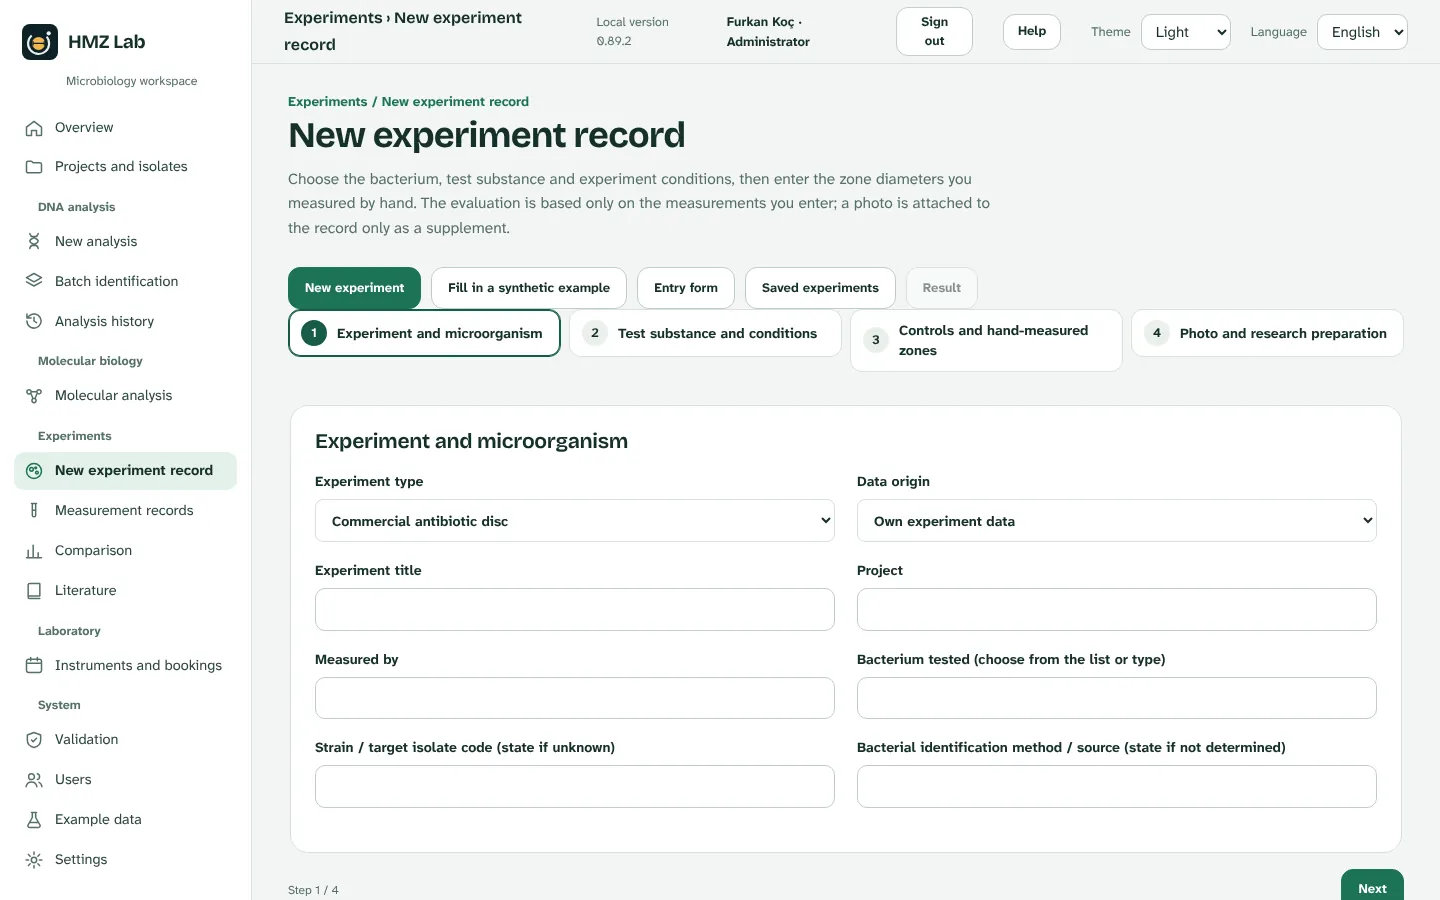
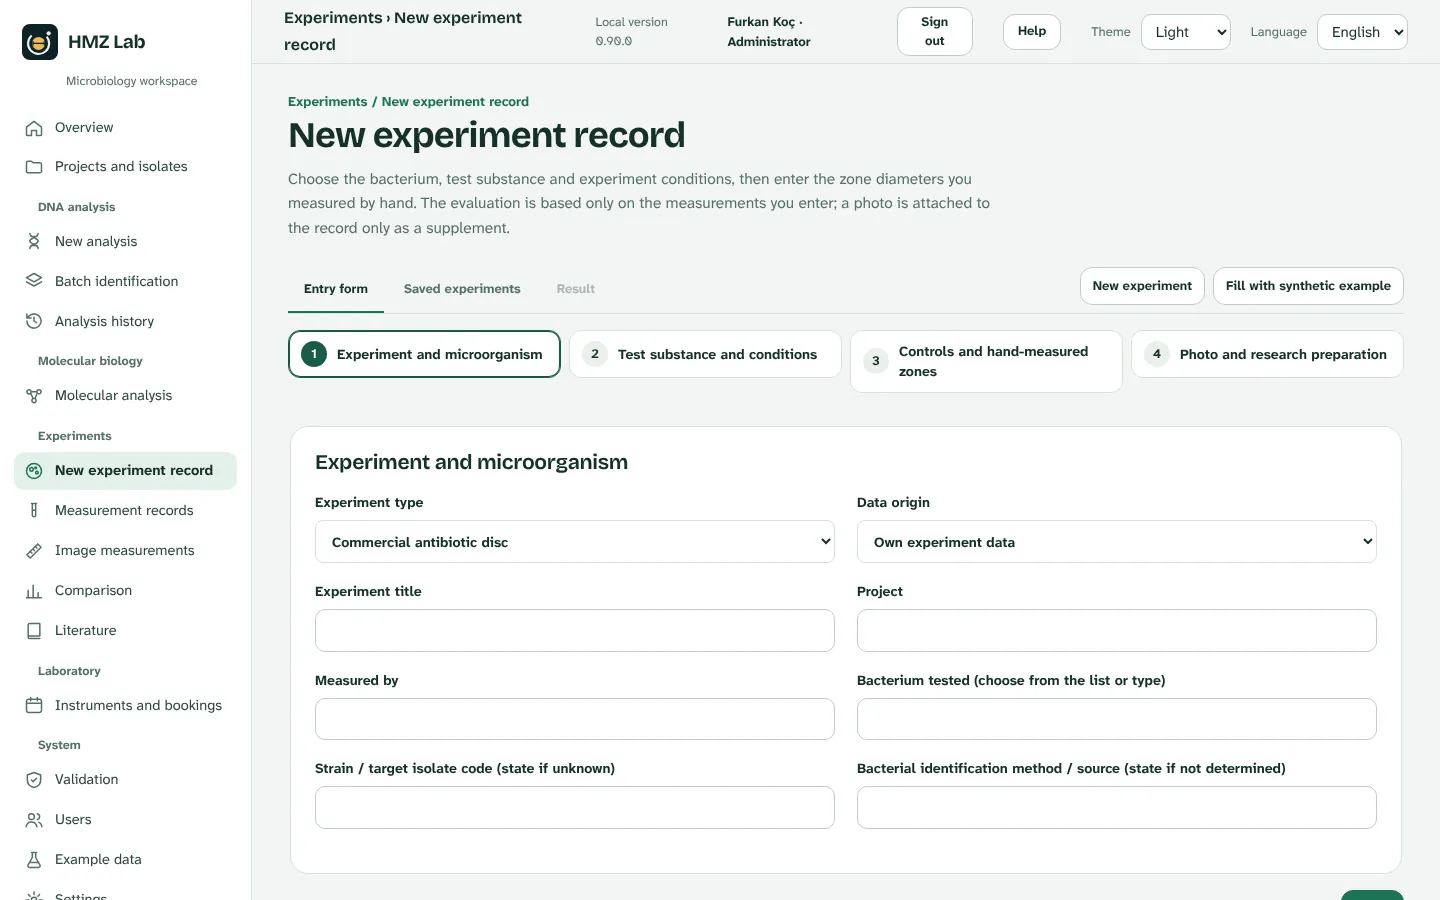
Add files via upload

diff --git a/en-download.html b/en-download.html
@@ -28,7 +28,7 @@
 <main id="icerik">
 <section class="sayfa-bas"><div class="kap">
 <h1>Download HMZ Lab</h1>
-<p class="giris">Latest version 0.89.2, 20 November 2026. Download files only from this page; an installer obtained elsewhere may have been altered. The program’s interface is available in English and Turkish.</p>
+<p class="giris">Latest version 0.90.0, 20 November 2026. Download files only from this page; an installer obtained elsewhere may have been altered. The program’s interface is available in English and Turkish.</p>
 </div></section>
 
 <section class="bolum ilk"><div class="kap platformlar">
@@ -70,14 +70,14 @@
 
 <section class="bolum" aria-labelledby="yenilikler"><div class="kap dar">
 <h2 id="yenilikler">What’s new in this version</h2>
-<ul class="liste"><li>The program has a new name: HMZ Lab (formerly BioLab Nexus). Installing over the old version moves your records automatically.</li><li>A new logo: an inhibition zone with a measuring line, in the program’s dark green and amber.</li><li>Windows installer: no Python needed and no administrator permission asked for; the program opens in its own window and stops by itself when the window is closed. Records are kept in a separate folder that updates and uninstalling never delete.</li><li>Account security: the number of sessions open at the same time on one account is limited (2 by default; the administrator can choose 1–5). Signing in on another device closes the oldest session, and that device is told why. You can see and close your open sessions in Settings.</li><li>The program can now be used in English: choose it in the Language box in the top bar (on a phone, at the bottom of the Menu); your records are not translated.</li><li>The website is in English and Turkish, with English screenshots of the program on the English pages.</li><li>Account requests and approval: the invitation goes to the school email address, and people choose their own username.</li></ul>
+<ul class="liste"><li>Example data now opens in a separate sandbox with one button: it never mixes with your real records, opens in its own window and can be emptied with “Start from scratch”.</li><li>Simpler pages: Projects and isolates is a one-line list with a “⋯” menu; New experiment record has a single row of tabs; Image measurements groups its exports in one menu; Settings has four sections (General, Backup, 16S reference, Licence).</li><li>File fields: drag a file in or choose one; the chosen file&#x27;s name is shown.</li><li>Project, sample and isolate fields suggest the names of existing records as you type.</li><li>The program has a new name: HMZ Lab (formerly BioLab Nexus). Installing over the old version moves your records automatically.</li><li>The program can now be used in English: choose it in the Language box in the top bar (on a phone, at the bottom of the Menu); your records are not translated.</li><li>Windows installer: no Python needed and no administrator permission asked for; the program opens in its own window and stops by itself when the window is closed. Records are kept in a separate folder that updates and uninstalling never delete.</li><li>Account security: the number of sessions open at the same time on one account is limited (2 by default; the administrator can choose 1–5). Signing in on another device closes the oldest session, and that device is told why. You can see and close your open sessions in Settings.</li></ul>
 </div></section>
 
 </main>
 <footer class="alt"><div class="kap alt-ic">
 <div><p class="alt-marka">HMZ Lab</p><p>Records, 16S identification, experiment and instrument booking software for microbiology laboratories.</p></div>
 <nav aria-label="Footer links"><a href="en-download.html">Download</a><a href="en-institutions.html">For institutions</a><a href="en-help.html">Help</a><a href="en-privacy.html">Privacy</a><a href="mailto:iletisim@ornek.com">Contact</a></nav>
-<p class="telif">© 2026 Furkan Koç. All rights reserved. HMZ Lab may be used only under a written licence agreement. Latest version 0.89.2 (20 November 2026).</p>
+<p class="telif">© 2026 Furkan Koç. All rights reserved. HMZ Lab may be used only under a written licence agreement. Latest version 0.90.0 (20 November 2026).</p>
 </div></footer>
 </body>
 </html>

diff --git a/indir.html b/indir.html
@@ -28,7 +28,7 @@
 <main id="icerik">
 <section class="sayfa-bas"><div class="kap">
 <h1>HMZ Lab’ı indirin</h1>
-<p class="giris">Son sürüm 0.89.2, 20 Kasım 2026. Dosyaları yalnız bu sayfadan indirin; başka bir yerden gelen kurulum dosyası değiştirilmiş olabilir.</p>
+<p class="giris">Son sürüm 0.90.0, 20 Kasım 2026. Dosyaları yalnız bu sayfadan indirin; başka bir yerden gelen kurulum dosyası değiştirilmiş olabilir.</p>
 </div></section>
 
 <section class="bolum ilk"><div class="kap platformlar">
@@ -70,14 +70,14 @@
 
 <section class="bolum" aria-labelledby="yenilikler"><div class="kap dar">
 <h2 id="yenilikler">Bu sürümde neler var?</h2>
-<ul class="liste"><li>Programın yeni adı HMZ Lab (önceki adı BioLab Nexus). Eski kurulumun üzerine kurulduğunda kayıtlar kendiliğinden taşınır.</li><li>Yeni logo: inhibisyon zonu ve ölçü çizgisi, programın koyu yeşil ve amber renkleriyle.</li><li>Windows kurulum dosyası: Python gerekmez, yönetici izni istenmez; program kendi penceresinde açılır ve pencere kapanınca kendiliğinden durur. Kayıtlar ayrı bir klasörde tutulur; güncelleme ve kaldırma silmez.</li><li>Hesap güvenliği: bir hesapta aynı anda açık oturum sayısı sınırlı (varsayılan 2; yönetici 1–5 arası seçer). Başka bir cihazdan girilince en eski oturum kapanır ve o cihaza nedeni söylenir. Ayarlar’da açık oturumlarınızı görüp kapatabilirsiniz.</li><li>Program artık İngilizce de kullanılabiliyor: üst çubuktaki Dil kutusundan (telefonda Menü’nün en altından) seçilir; kayıtlar çevrilmez.</li><li>Site Türkçe ve İngilizce; İngilizce sayfalarda programın İngilizce ekran görüntüleri.</li><li>Hesap talebi ve onay akışı: okul e-postasına giden davet, kullanıcı adını kişinin kendisinin seçmesi.</li></ul>
+<ul class="liste"><li>Örnek veriler artık tek düğmeyle ayrı bir deneme alanında açılıyor: asıl kayıtlarınıza karışmaz, kendi penceresinde açılır ve “Sıfırdan başlat” ile boşaltılır.</li><li>Daha sade sayfalar: Projeler ve izolatlar tek satırlık liste ve “⋯” menüsü; Yeni deney kaydında tek sekme satırı; Görüntü ölçümlerinde dışa aktarmalar tek menüde; Ayarlar dört bölümde (Genel, Yedekleme, 16S referansı, Lisans).</li><li>Dosya seçme alanları: dosyayı sürükleyip bırakın ya da seçin; seçilen dosyanın adı görünür.</li><li>Proje, numune ve izolat alanları var olan kayıtların adlarını yazdıkça öneriyor.</li><li>Programın yeni adı HMZ Lab (önceki adı BioLab Nexus). Eski kurulumun üzerine kurulduğunda kayıtlar kendiliğinden taşınır.</li><li>Program artık İngilizce de kullanılabiliyor: üst çubuktaki Dil kutusundan (telefonda Menü’nün en altından) seçilir; kayıtlar çevrilmez.</li><li>Windows kurulum dosyası: Python gerekmez, yönetici izni istenmez; program kendi penceresinde açılır ve pencere kapanınca kendiliğinden durur. Kayıtlar ayrı bir klasörde tutulur; güncelleme ve kaldırma silmez.</li><li>Hesap güvenliği: bir hesapta aynı anda açık oturum sayısı sınırlı (varsayılan 2; yönetici 1–5 arası seçer). Başka bir cihazdan girilince en eski oturum kapanır ve o cihaza nedeni söylenir. Ayarlar’da açık oturumlarınızı görüp kapatabilirsiniz.</li></ul>
 </div></section>
 
 </main>
 <footer class="alt"><div class="kap alt-ic">
 <div><p class="alt-marka">HMZ Lab</p><p>Mikrobiyoloji laboratuvarları için kayıt, 16S tanımlama, deney ve cihaz randevu programı.</p></div>
 <nav aria-label="Alt bağlantılar"><a href="indir.html">İndir</a><a href="kurumlar.html">Kurumlar için</a><a href="yardim.html">Yardım</a><a href="gizlilik.html">Gizlilik</a><a href="mailto:iletisim@ornek.com">İletişim</a></nav>
-<p class="telif">© 2026 Furkan Koç. Tüm hakları saklıdır. HMZ Lab yalnız yazılı lisans sözleşmesiyle kullanılabilir. Son sürüm 0.89.2 (20 Kasım 2026).</p>
+<p class="telif">© 2026 Furkan Koç. Tüm hakları saklıdır. HMZ Lab yalnız yazılı lisans sözleşmesiyle kullanılabilir. Son sürüm 0.90.0 (20 Kasım 2026).</p>
 </div></footer>
 </body>
 </html>

diff --git a/en.html b/en.html
@@ -129,7 +129,7 @@
 <footer class="alt"><div class="kap alt-ic">
 <div><p class="alt-marka">HMZ Lab</p><p>Records, 16S identification, experiment and instrument booking software for microbiology laboratories.</p></div>
 <nav aria-label="Footer links"><a href="en-download.html">Download</a><a href="en-institutions.html">For institutions</a><a href="en-help.html">Help</a><a href="en-privacy.html">Privacy</a><a href="mailto:iletisim@ornek.com">Contact</a></nav>
-<p class="telif">© 2026 Furkan Koç. All rights reserved. HMZ Lab may be used only under a written licence agreement. Latest version 0.89.2 (20 November 2026).</p>
+<p class="telif">© 2026 Furkan Koç. All rights reserved. HMZ Lab may be used only under a written licence agreement. Latest version 0.90.0 (20 November 2026).</p>
 </div></footer>
 </body>
 </html>

diff --git a/en-help.html b/en-help.html
@@ -75,7 +75,7 @@
 <footer class="alt"><div class="kap alt-ic">
 <div><p class="alt-marka">HMZ Lab</p><p>Records, 16S identification, experiment and instrument booking software for microbiology laboratories.</p></div>
 <nav aria-label="Footer links"><a href="en-download.html">Download</a><a href="en-institutions.html">For institutions</a><a href="en-help.html">Help</a><a href="en-privacy.html">Privacy</a><a href="mailto:iletisim@ornek.com">Contact</a></nav>
-<p class="telif">© 2026 Furkan Koç. All rights reserved. HMZ Lab may be used only under a written licence agreement. Latest version 0.89.2 (20 November 2026).</p>
+<p class="telif">© 2026 Furkan Koç. All rights reserved. HMZ Lab may be used only under a written licence agreement. Latest version 0.90.0 (20 November 2026).</p>
 </div></footer>
 </body>
 </html>

diff --git a/en-institutions.html b/en-institutions.html
@@ -91,7 +91,7 @@
 <footer class="alt"><div class="kap alt-ic">
 <div><p class="alt-marka">HMZ Lab</p><p>Records, 16S identification, experiment and instrument booking software for microbiology laboratories.</p></div>
 <nav aria-label="Footer links"><a href="en-download.html">Download</a><a href="en-institutions.html">For institutions</a><a href="en-help.html">Help</a><a href="en-privacy.html">Privacy</a><a href="mailto:iletisim@ornek.com">Contact</a></nav>
-<p class="telif">© 2026 Furkan Koç. All rights reserved. HMZ Lab may be used only under a written licence agreement. Latest version 0.89.2 (20 November 2026).</p>
+<p class="telif">© 2026 Furkan Koç. All rights reserved. HMZ Lab may be used only under a written licence agreement. Latest version 0.90.0 (20 November 2026).</p>
 </div></footer>
 </body>
 </html>

diff --git a/en-privacy.html b/en-privacy.html
@@ -55,7 +55,7 @@
 <footer class="alt"><div class="kap alt-ic">
 <div><p class="alt-marka">HMZ Lab</p><p>Records, 16S identification, experiment and instrument booking software for microbiology laboratories.</p></div>
 <nav aria-label="Footer links"><a href="en-download.html">Download</a><a href="en-institutions.html">For institutions</a><a href="en-help.html">Help</a><a href="en-privacy.html">Privacy</a><a href="mailto:iletisim@ornek.com">Contact</a></nav>
-<p class="telif">© 2026 Furkan Koç. All rights reserved. HMZ Lab may be used only under a written licence agreement. Latest version 0.89.2 (20 November 2026).</p>
+<p class="telif">© 2026 Furkan Koç. All rights reserved. HMZ Lab may be used only under a written licence agreement. Latest version 0.90.0 (20 November 2026).</p>
 </div></footer>
 </body>
 </html>

diff --git a/index.html b/index.html
@@ -129,7 +129,7 @@
 <footer class="alt"><div class="kap alt-ic">
 <div><p class="alt-marka">HMZ Lab</p><p>Mikrobiyoloji laboratuvarları için kayıt, 16S tanımlama, deney ve cihaz randevu programı.</p></div>
 <nav aria-label="Alt bağlantılar"><a href="indir.html">İndir</a><a href="kurumlar.html">Kurumlar için</a><a href="yardim.html">Yardım</a><a href="gizlilik.html">Gizlilik</a><a href="mailto:iletisim@ornek.com">İletişim</a></nav>
-<p class="telif">© 2026 Furkan Koç. Tüm hakları saklıdır. HMZ Lab yalnız yazılı lisans sözleşmesiyle kullanılabilir. Son sürüm 0.89.2 (20 Kasım 2026).</p>
+<p class="telif">© 2026 Furkan Koç. Tüm hakları saklıdır. HMZ Lab yalnız yazılı lisans sözleşmesiyle kullanılabilir. Son sürüm 0.90.0 (20 Kasım 2026).</p>
 </div></footer>
 </body>
 </html>

diff --git a/404.html b/404.html
@@ -30,7 +30,7 @@
 <footer class="alt"><div class="kap alt-ic">
 <div><p class="alt-marka">HMZ Lab</p><p>Mikrobiyoloji laboratuvarları için kayıt, 16S tanımlama, deney ve cihaz randevu programı.</p></div>
 <nav aria-label="Alt bağlantılar"><a href="indir.html">İndir</a><a href="kurumlar.html">Kurumlar için</a><a href="yardim.html">Yardım</a><a href="gizlilik.html">Gizlilik</a><a href="mailto:iletisim@ornek.com">İletişim</a></nav>
-<p class="telif">© 2026 Furkan Koç. Tüm hakları saklıdır. HMZ Lab yalnız yazılı lisans sözleşmesiyle kullanılabilir. Son sürüm 0.89.2 (20 Kasım 2026).</p>
+<p class="telif">© 2026 Furkan Koç. Tüm hakları saklıdır. HMZ Lab yalnız yazılı lisans sözleşmesiyle kullanılabilir. Son sürüm 0.90.0 (20 Kasım 2026).</p>
 </div></footer>
 </body>
 </html>

diff --git a/gizlilik.html b/gizlilik.html
@@ -55,7 +55,7 @@
 <footer class="alt"><div class="kap alt-ic">
 <div><p class="alt-marka">HMZ Lab</p><p>Mikrobiyoloji laboratuvarları için kayıt, 16S tanımlama, deney ve cihaz randevu programı.</p></div>
 <nav aria-label="Alt bağlantılar"><a href="indir.html">İndir</a><a href="kurumlar.html">Kurumlar için</a><a href="yardim.html">Yardım</a><a href="gizlilik.html">Gizlilik</a><a href="mailto:iletisim@ornek.com">İletişim</a></nav>
-<p class="telif">© 2026 Furkan Koç. Tüm hakları saklıdır. HMZ Lab yalnız yazılı lisans sözleşmesiyle kullanılabilir. Son sürüm 0.89.2 (20 Kasım 2026).</p>
+<p class="telif">© 2026 Furkan Koç. Tüm hakları saklıdır. HMZ Lab yalnız yazılı lisans sözleşmesiyle kullanılabilir. Son sürüm 0.90.0 (20 Kasım 2026).</p>
 </div></footer>
 </body>
 </html>

diff --git a/kurumlar.html b/kurumlar.html
@@ -91,7 +91,7 @@
 <footer class="alt"><div class="kap alt-ic">
 <div><p class="alt-marka">HMZ Lab</p><p>Mikrobiyoloji laboratuvarları için kayıt, 16S tanımlama, deney ve cihaz randevu programı.</p></div>
 <nav aria-label="Alt bağlantılar"><a href="indir.html">İndir</a><a href="kurumlar.html">Kurumlar için</a><a href="yardim.html">Yardım</a><a href="gizlilik.html">Gizlilik</a><a href="mailto:iletisim@ornek.com">İletişim</a></nav>
-<p class="telif">© 2026 Furkan Koç. Tüm hakları saklıdır. HMZ Lab yalnız yazılı lisans sözleşmesiyle kullanılabilir. Son sürüm 0.89.2 (20 Kasım 2026).</p>
+<p class="telif">© 2026 Furkan Koç. Tüm hakları saklıdır. HMZ Lab yalnız yazılı lisans sözleşmesiyle kullanılabilir. Son sürüm 0.90.0 (20 Kasım 2026).</p>
 </div></footer>
 </body>
 </html>

diff --git a/yardim.html b/yardim.html
@@ -75,7 +75,7 @@
 <footer class="alt"><div class="kap alt-ic">
 <div><p class="alt-marka">HMZ Lab</p><p>Mikrobiyoloji laboratuvarları için kayıt, 16S tanımlama, deney ve cihaz randevu programı.</p></div>
 <nav aria-label="Alt bağlantılar"><a href="indir.html">İndir</a><a href="kurumlar.html">Kurumlar için</a><a href="yardim.html">Yardım</a><a href="gizlilik.html">Gizlilik</a><a href="mailto:iletisim@ornek.com">İletişim</a></nav>
-<p class="telif">© 2026 Furkan Koç. Tüm hakları saklıdır. HMZ Lab yalnız yazılı lisans sözleşmesiyle kullanılabilir. Son sürüm 0.89.2 (20 Kasım 2026).</p>
+<p class="telif">© 2026 Furkan Koç. Tüm hakları saklıdır. HMZ Lab yalnız yazılı lisans sözleşmesiyle kullanılabilir. Son sürüm 0.90.0 (20 Kasım 2026).</p>
 </div></footer>
 </body>
 </html>
